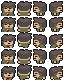
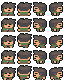
fix(v2): Marie und Liam sind Kinder – so groß wie Emilia und Lena
Antwort des Auftraggebers in der Stil-Prüfung: Beide Figurenblätter
verlieren je Zelle eine Zeile (Mütze bzw. Haare), höchste Pose 15 statt 16.

diff --git a/v2/tests/art/figures.test.ts b/v2/tests/art/figures.test.ts
@@ -13,7 +13,9 @@ const CELL = 16;
 const COLS = 4;
 const ROWS = 5;
 const CHILDREN = ['emilia', 'lena', 'julian'];
-const ADULTS = NPCS.map((n) => n.id);
+/** Dorfbewohner, die Kinder sind (Antwort des Auftraggebers in der Stil-Prüfung, 2026-11-14): so groß wie Emilia. */
+const CHILD_NPCS = ['marie', 'liam'];
+const ADULTS = NPCS.map((n) => n.id).filter((id) => !CHILD_NPCS.includes(id));
 /** Erwachsene, deren Pflicht-Vorlage nicht 16 hoch ist (offener Punkt für den Auftraggeber). */
 const TOO_SHORT_TEMPLATE = ['oma'];
 
@@ -67,7 +69,8 @@ describe('sprites.ts', () => {
   });
 
   it('FIGURES hat genau Emilia, Lena, Julian und alle Dorfbewohner', () => {
-    expect(Object.keys(FIGURES).sort()).toEqual([...CHILDREN, ...ADULTS].sort());
+    expect(CHILD_NPCS.filter((id) => !NPCS.some((n) => n.id === id))).toEqual([]);
+    expect(Object.keys(FIGURES).sort()).toEqual([...CHILDREN, ...CHILD_NPCS, ...ADULTS].sort());
   });
 
   it('jede Blatt- und Gesichtsdatei existiert, dazu der Schatten', () => {
@@ -119,11 +122,18 @@ describe('Figurenblätter', () => {
     expect(Math.max(...boxes.map((b) => b!.right))).toBe(CELL - 2);
   });
 
-  it('Größen: Julian < Emilia = Lena < Erwachsene (Spec 8.2)', () => {
+  it('Größen: Julian < Emilia = Lena = Marie = Liam < Erwachsene (Spec 8.2)', () => {
     expect(FIGURES.julian!.height).toBe(13);
     expect(FIGURES.emilia!.height).toBe(15);
     expect(FIGURES.lena!.height).toBe(15);
+    for (const id of CHILD_NPCS) expect(FIGURES[id]!.height, id).toBe(15);
     for (const id of ADULTS.filter((a) => !TOO_SHORT_TEMPLATE.includes(a))) expect(FIGURES[id]!.height, id).toBe(16);
+  });
+
+  it('im Stehen ist Marie so hoch wie Emilia und Liam so hoch wie Lena', () => {
+    const idleTop = (id: string) => Math.min(...cellBoxes(readSheet(FIGURES[id]!.sheet)).slice(0, COLS).map((b) => b!.top));
+    expect(CELL - idleTop('marie')).toBe(CELL - idleTop('emilia'));
+    expect(CELL - idleTop('liam')).toBe(CELL - idleTop('lena'));
   });
 
   it('Ausnahme: Oma (Vorlage OldWoman) ist nur so groß wie Emilia, nicht kleiner', () => {

diff --git a/v2/src/data/sprites.ts b/v2/src/data/sprites.ts
@@ -23,15 +23,16 @@ function figure(id: string, height: FigureDef['height']): FigureDef {
   return { sheet: `figuren/${id}.png`, face: `figuren/${id}-gesicht.png`, height };
 }
 
-/** Kinder sind kleiner als Erwachsene: Julian < Emilia = Lena < Dorfbewohner (Spec 8.2). */
+/** Kinder sind kleiner als Erwachsene: Julian < Emilia = Lena = Marie = Liam < erwachsene Dorfbewohner (Spec 8.2). */
 export const FIGURES: Record<string, FigureDef> = {
   emilia: figure('emilia', 15),
   lena: figure('lena', 15),
   julian: figure('julian', 13),
   mama_tanja: figure('mama_tanja', 16),
   papa_milos: figure('papa_milos', 16),
-  marie: figure('marie', 16),
-  liam: figure('liam', 16),
+  // Marie und Liam sind Kinder (Antwort des Auftraggebers, Stil-Prüfung 2026-11-14): so groß wie Emilia und Lena.
+  marie: figure('marie', 15),
+  liam: figure('liam', 15),
   // OldWoman ist im Pack in keinem Bild höher als 15 und hat nur zwei Laufbilder (offener Punkt, siehe Bericht Task 8).
   oma: figure('oma', 15),
   opa: figure('opa', 16),

diff --git a/v2/src/assets/gfx/QUELLEN.md b/v2/src/assets/gfx/QUELLEN.md
@@ -79,10 +79,10 @@ Eine Namensnennung ist nicht verlangt; wir nennen die Urheber trotzdem gern.
 | mama_tanja | figuren/mama_tanja-gesicht.png | Actor/Character/Villager3/Faceset.png | siehe Änderungen | recolor [{"#4e484a":"#965340","#3b3643":"#695953","#a3754e":"#f2ad7d","#965340":"#d3865f","#56864c":"#cf736d","#a8a129":"#ef9597","#8d977f":"#543c52","#abc2bc":"#8f3e56"}] | Mama Tanja: braune Haare als Bob, rosa Oberteil, pflaumenfarbener Rock | CC0 1.0 |
 | papa_milos | figuren/papa_milos.png | Actor/Character/Villager2/SeparateAnim/Idle.png + Actor/Character/Villager2/SeparateAnim/Walk.png | siehe Änderungen | recolor [{"#d14b34":"#f2ad7d","#8f3e56":"#d3865f"}]; anchorBottomCenter [16,16] | Papa Milos: schwarze, wilde Locken, blaue Hose (Vorlage hat kein eigenes Hemd: Hemd- und Hautschatten sind eine Farbe) | CC0 1.0 |
 | papa_milos | figuren/papa_milos-gesicht.png | Actor/Character/Villager2/Faceset.png | siehe Änderungen | recolor [{"#d14b34":"#f2ad7d","#8f3e56":"#d3865f"}] | Papa Milos: schwarze, wilde Locken, blaue Hose (Vorlage hat kein eigenes Hemd: Hemd- und Hautschatten sind eine Farbe) | CC0 1.0 |
-| marie | figuren/marie.png | Actor/Character/ManGreen/SeparateAnim/Idle.png + Actor/Character/ManGreen/SeparateAnim/Walk.png | siehe Änderungen | recolor [{"#ef914f":"#f2ad7d","#d14b34":"#d3865f"}]; anchorBottomCenter [16,16] | Marie: blonde Haare unter grüner Zipfelmütze, grüne Kleidung (Mütze und Kleidung teilen die Farben; gelb würde mit den Haaren verschwimmen) | CC0 1.0 |
-| marie | figuren/marie-gesicht.png | Actor/Character/ManGreen/Faceset1.png | siehe Änderungen | recolor [{"#ef914f":"#f2ad7d","#d14b34":"#d3865f"}] | Marie: blonde Haare unter grüner Zipfelmütze, grüne Kleidung (Mütze und Kleidung teilen die Farben; gelb würde mit den Haaren verschwimmen) | CC0 1.0 |
-| liam | figuren/liam.png | Actor/Character/Boy/SeparateAnim/Idle.png + Actor/Character/Boy/SeparateAnim/Walk.png | siehe Änderungen | recolor [{"#d14b34":"#695953","#965340":"#4e484a","#ef914f":"#f2ad7d","#e3f1f5":"#56864c","#548789":"#816855"}]; anchorBottomCenter [16,16] | Angler Liam: dunkelbraune Strubbelhaare, grünes Hemd, braune Hose | CC0 1.0 |
-| liam | figuren/liam-gesicht.png | Actor/Character/Boy/Faceset.png | siehe Änderungen | recolor [{"#d14b34":"#695953","#965340":"#4e484a","#ef914f":"#f2ad7d","#e3f1f5":"#56864c","#548789":"#816855"}] | Angler Liam: dunkelbraune Strubbelhaare, grünes Hemd, braune Hose | CC0 1.0 |
+| marie | figuren/marie.png | Actor/Character/ManGreen/SeparateAnim/Idle.png + Actor/Character/ManGreen/SeparateAnim/Walk.png | siehe Änderungen | recolor [{"#ef914f":"#f2ad7d","#d14b34":"#d3865f"}]; dropRows [[5]] nur Richtung unten/oben; dropRows [[4]] nur Richtung links; dropRows [[4]] nur Richtung rechts, Blattzeile 0/1/3; dropRows [[5]] nur Richtung rechts, Blattzeile 2/4; anchorBottomCenter [16,16] | Marie (Kind): blonde Haare unter grüner Zipfelmütze, grüne Kleidung (Mütze und Kleidung teilen die Farben; gelb würde mit den Haaren verschwimmen) | CC0 1.0 |
+| marie | figuren/marie-gesicht.png | Actor/Character/ManGreen/Faceset1.png | siehe Änderungen | recolor [{"#ef914f":"#f2ad7d","#d14b34":"#d3865f"}] | Marie (Kind): blonde Haare unter grüner Zipfelmütze, grüne Kleidung (Mütze und Kleidung teilen die Farben; gelb würde mit den Haaren verschwimmen) | CC0 1.0 |
+| liam | figuren/liam.png | Actor/Character/Boy/SeparateAnim/Idle.png + Actor/Character/Boy/SeparateAnim/Walk.png | siehe Änderungen | recolor [{"#d14b34":"#695953","#965340":"#4e484a","#ef914f":"#f2ad7d","#e3f1f5":"#56864c","#548789":"#816855"}]; dropRows [[6]] nur Blattzeile 0/1/3; dropRows [[7]] nur Richtung unten/links/rechts, Blattzeile 2/4; dropRows [[5]] nur Richtung oben, Blattzeile 2/4; anchorBottomCenter [16,16] | Angler Liam (Kind): dunkelbraune Strubbelhaare, grünes Hemd, braune Hose | CC0 1.0 |
+| liam | figuren/liam-gesicht.png | Actor/Character/Boy/Faceset.png | siehe Änderungen | recolor [{"#d14b34":"#695953","#965340":"#4e484a","#ef914f":"#f2ad7d","#e3f1f5":"#56864c","#548789":"#816855"}] | Angler Liam (Kind): dunkelbraune Strubbelhaare, grünes Hemd, braune Hose | CC0 1.0 |
 | oma | figuren/oma.png | Actor/Character/OldWoman/SpriteSheet.png (Zeilen 0, 0, 1, 0, 1) | siehe Änderungen | recolor [{"#d3a2c0":"#8e7c73","#f2eaf1":"#b3957f","#a5608b":"#4e484a","#548789":"#a5608b","#2d697b":"#8f3e56","#ef914f":"#f2ad7d","#d14b34":"#d3865f"}]; anchorBottomCenter [16,16] | Oma: graue lange Haare, malvenfarbenes Kleid | CC0 1.0 |
 | oma | figuren/oma-gesicht.png | Actor/Character/OldWoman/Faceset.png | siehe Änderungen | recolor [{"#d3a2c0":"#8e7c73","#f2eaf1":"#b3957f","#a5608b":"#4e484a","#548789":"#a5608b","#2d697b":"#8f3e56","#ef914f":"#f2ad7d","#d14b34":"#d3865f"}] | Oma: graue lange Haare, malvenfarbenes Kleid | CC0 1.0 |
 | opa | figuren/opa.png | Actor/Character/OldMan3/SeparateAnim/Idle.png + Actor/Character/OldMan3/SeparateAnim/Walk.png | siehe Änderungen | recolor [{"#3b3643":"#5f7160","#4e484a":"#8d977f","#ef914f":"#f2ad7d","#d14b34":"#d3865f"}]; anchorBottomCenter [16,16] | Opa: Strohhut, weißer Bart, olivgrünes Gewand (Glatze unter dem Hut) | CC0 1.0 |
@@ -107,8 +107,8 @@ Vorlagen aus `Actor/Character/` im Pack; Höhe und Breite in Bildpunkten, gemess
 | julian | Villager4 | 2 Farben umgefärbt; Zeile 4, 9, 13 entfernt (Blattzeile 0/1/3); Zeile 5, 10, 13 entfernt (Richtung unten/links/rechts, Blattzeile 2/4); Zeile 3, 8, 13 entfernt (Richtung oben, Blattzeile 2/4); Spalte 6, 9 entfernt | 13 | 14 | Cousin Julian: blonde Haare, rotes Hemd (Hemdfarbe = Wangen im Gesicht), kleiner als alle |
 | mama_tanja | Villager3 | 8 Farben umgefärbt | 16 | 16 | Mama Tanja: braune Haare als Bob, rosa Oberteil, pflaumenfarbener Rock |
 | papa_milos | Villager2 | 2 Farben umgefärbt | 16 | 16 | Papa Milos: schwarze, wilde Locken, blaue Hose (Vorlage hat kein eigenes Hemd: Hemd- und Hautschatten sind eine Farbe) |
-| marie | ManGreen | 2 Farben umgefärbt | 16 | 16 | Marie: blonde Haare unter grüner Zipfelmütze, grüne Kleidung (Mütze und Kleidung teilen die Farben; gelb würde mit den Haaren verschwimmen) |
-| liam | Boy | 5 Farben umgefärbt | 16 | 15 | Angler Liam: dunkelbraune Strubbelhaare, grünes Hemd, braune Hose |
+| marie | ManGreen | 2 Farben umgefärbt; Zeile 5 entfernt (Richtung unten/oben); Zeile 4 entfernt (Richtung links); Zeile 4 entfernt (Richtung rechts, Blattzeile 0/1/3); Zeile 5 entfernt (Richtung rechts, Blattzeile 2/4) | 15 | 16 | Marie (Kind): blonde Haare unter grüner Zipfelmütze, grüne Kleidung (Mütze und Kleidung teilen die Farben; gelb würde mit den Haaren verschwimmen) |
+| liam | Boy | 5 Farben umgefärbt; Zeile 6 entfernt (Blattzeile 0/1/3); Zeile 7 entfernt (Richtung unten/links/rechts, Blattzeile 2/4); Zeile 5 entfernt (Richtung oben, Blattzeile 2/4) | 15 | 15 | Angler Liam (Kind): dunkelbraune Strubbelhaare, grünes Hemd, braune Hose |
 | oma | OldWoman | 7 Farben umgefärbt | 15 | 15 | Oma: graue lange Haare, malvenfarbenes Kleid |
 | opa | OldMan3 | 4 Farben umgefärbt | 16 | 16 | Opa: Strohhut, weißer Bart, olivgrünes Gewand (Glatze unter dem Hut) |
 | baba | Cavegirl2 | 6 Farben umgefärbt | 16 | 16 | Baba: rotbraune, wilde Haare mit Zöpfen, rotes Kleid |

diff --git a/docs/superpowers/plans/2026-11-13-emilia-2-etappe-1a-einstieg-und-welt.md b/docs/superpowers/plans/2026-11-13-emilia-2-etappe-1a-einstieg-und-welt.md
@@ -655,7 +655,7 @@
 
 Umgesetzt per Subagent-Driven Development auf dem Branch `v2/etappe-1a-welt` (abgezweigt von `plan/etappe-1`), alle 13 Tasks mit eigener Prüfung, danach Schlussprüfung des ganzen Branchs und eine Fix-Welle. Nichts ist gemergt oder gepusht.
 
-**Prüfstand am Ende:** `v2/`: Typprüfung ohne Fehler, Vitest 613 bestanden (nach dem Versetzen des Lagerfeuers; 3 übersprungen: Tests, die das Pack oder Emilias echte Datei brauchen), Playwright 100 bestanden / 19 übersprungen (Chromium, WebKit, gebautes Paket), Paket-Schutztests 9 von 9, Grafik- und Kartentests mit Pack grün. Stamm: `npm test` und `npm run build` in Ordnung; am alten Spiel ist nichts geändert. Hinweis zur Reihenfolge: Der Stamm-Build leert `dist/`; erst danach `cd v2 && npm run build`, dann liegen `dist/index.html` und `dist/v2/index.html` beide vor (die Auslieferung baut ohnehin getrennt).
+**Prüfstand am Ende:** `v2/`: Typprüfung ohne Fehler, Vitest 614 bestanden (nach dem Versetzen des Lagerfeuers und dem Verkleinern von Marie und Liam; mit Pack 616; 3 übersprungen: Tests, die das Pack oder Emilias echte Datei brauchen), Playwright 100 bestanden / 19 übersprungen (Chromium, WebKit, gebautes Paket), Paket-Schutztests 9 von 9, Grafik- und Kartentests mit Pack grün. Stamm: `npm test` und `npm run build` in Ordnung; am alten Spiel ist nichts geändert. Hinweis zur Reihenfolge: Der Stamm-Build leert `dist/`; erst danach `cd v2 && npm run build`, dann liegen `dist/index.html` und `dist/v2/index.html` beide vor (die Auslieferung baut ohnehin getrennt).
 
 ### Was gegenüber dem Plan geändert wurde (Entscheidungen während der Umsetzung)
 
@@ -674,10 +674,11 @@ Umgesetzt per Subagent-Driven Development auf dem Branch `v2/etappe-1a-welt` (ab
 13. **Probe-Szene** wird weiter in `main.ts` gewählt (hält sie aus dem Produktions-Paket); `fps.smoothStep` ist aus (sonst Zeitlupe unter 60 Bildern je Sekunde); die Kamera zielt mit `centerOn` (Phaser kappt Kachel-Ebenen nach `worldView`, das den Ursprung ignoriert).
 14. **Fix-Welle nach der Schlussprüfung:** keine klebende Taste bei Zusatztasten, Rechtsklick-Menü und verborgener Seite; Fuß auf der unteren Kartenkante bleibt beim Neuladen stehen; Paket-Schutztest sucht weitere Test-Zugänge und prüft den ganzen CSP-Wortlaut.
 15. **Lagerfeuer versetzt (Stil-Prüfung, Wunsch des Auftraggebers am 2026-11-14):** Im alten Spiel stand es mitten auf dem Südweg (20/19). Es steht jetzt auf der Wiese östlich neben dem Weg auf 22/20, in Babas Blickrichtung; der Südweg ist durchgehend frei. Das weicht bewusst von Task 9 ab („Ort des Lagerfeuers unverändert"). Baba bleibt auf 18/20.
+16. **Marie und Liam sind Kinder (Stil-Prüfung, Antwort des Auftraggebers am 2026-11-14):** Beide Blätter verlieren je Zelle eine Zeile (Marie aus der Mütze, Liam aus den Haaren; Zeilen je Richtung und Haltung so gewählt, dass der Umriss geschlossen bleibt). Höchste Pose jetzt 15 statt 16 wie bei Emilia und Lena; im Stehen ist Marie 15 hoch wie Emilia, Liam 14 wie Lena. Gemessen im Stehen: Papa, Opa, Baba 16; Mama, Deda, Ferdinand 15 (16 erreichen sie erst im Schritt nach oben); Oma immer 15. Marie reicht mit der Zipfelmütze also im Stehen so hoch wie Mama. Die Gesichter (Porträts) sind unverändert.
 
 **Fehler im Plantext, die bei der Umsetzung auffielen:** `starsky` führt acht `npc`-Objekte *mit* Dorfbewohner-Kennungen (nicht ohne). `resetQuests` im alten Spiel ruft ein nicht vorhandenes `_assignNextQuest()`; ein echter New-Game-Plus-Stand sieht deshalb anders aus als die Vorlage `LEGACY_NGPLUS` (v2 verarbeitet die echte Form richtig; eine Vorlage in echter Form fehlt noch in der Verstümmelungs-Schleife). Mein Testraster fürs Eckenrutschen war zweimal falsch gestellt (0,5-s-Grenze; 5 Bildpunkte Überstand mit Querabsicht).
 
-### Figuren-Zuordnung (Vorschlag, wird in der Stil-Prüfung entschieden)
+### Figuren-Zuordnung (in der Stil-Prüfung am 2026-11-14 bestätigt)
 
 | Figur | Vorlage im Pack | Höhe | Aussehen und Abweichung |
 |---|---|---|---|
@@ -686,8 +687,8 @@ Umgesetzt per Subagent-Driven Development auf dem Branch `v2/etappe-1a-welt` (ab
 | julian | `Villager4` | 13 (14 breit) | blond, rotes Hemd |
 | mama_tanja | `Villager3` | 16 | brauner Bob, rosa Oberteil |
 | papa_milos | `Villager2` | 16 | schwarze Locken, blaue Hose; kein blaues Hemd |
-| marie | `ManGreen` | 16 | blond unter grüner Zipfelmütze; grün statt gelb |
-| liam | `Boy` | 16 | dunkelbraune Strubbelhaare, grünes Hemd |
+| marie | `ManGreen` | 15 (Kind) | blond unter grüner Zipfelmütze; grün statt gelb |
+| liam | `Boy` | 15 (Kind) | dunkelbraune Strubbelhaare, grünes Hemd |
 | oma | `OldWoman` | 15 | graue lange Haare, malvenfarbenes Kleid |
 | opa | `OldMan3` | 16 | Strohhut, weißer Bart, olivgrünes Gewand |
 | baba | `Cavegirl2` | 16 | rotbraune Haare, rotes Kleid; wirkt jung |
@@ -713,7 +714,7 @@ Stichwortliste im Kopfkommentar von `v2/src/scenes/world/buildLayers.ts` (Tilema
 
 - Gefällt das Dorf (Erdweg statt Sandweg; Tannen wirken wie Büsche; Gartenecke mit Blumen unter den Zäunen unruhig)? **Antwort 2026-11-14 (anhand von Bildern, unterwegs): „ja, gefällt mir", mit einer Änderung: Das Lagerfeuer stand auf dem Weg und ist versetzt (siehe Punkt 15 oben).**
 - Größen: Kinder sind meist nur einen Bildpunkt kleiner als Erwachsene; Oma ist so hoch wie Emilia. **Antwort 2026-11-14: „passt" – die Größen bleiben, wie sie sind.**
-- Zuordnung der Figuren (Tabelle oben): Papa ohne Hemd in Blau, Marie in Grün, Baba wirkt jung; Emilia und Mama ähneln sich am meisten. **Antwort 2026-11-14 (anhand des Figurenbilds, die vier Punkte waren genannt): „ja" – alle zwölf Zuordnungen bleiben.** Sind Marie und Liam Kinder oder Erwachsene? (Noch offen; beide sind derzeit 16 Bildpunkte hoch wie die Erwachsenen.)
+- Zuordnung der Figuren (Tabelle oben): Papa ohne Hemd in Blau, Marie in Grün, Baba wirkt jung; Emilia und Mama ähneln sich am meisten. **Antwort 2026-11-14 (anhand des Figurenbilds, die vier Punkte waren genannt): „ja" – alle zwölf Zuordnungen bleiben.** Sind Marie und Liam Kinder oder Erwachsene? **Antwort 2026-11-14: „Kinder" – beide sind jetzt so groß wie Emilia und Lena (siehe Punkt 16 oben).**
 - Schatten der Figuren ist kaum zu sehen (liegt fast ganz unter der Figur).
 - Zäune, Truhen, Wegweiser, Büsche und Hühner sind wie im alten Spiel durchlaufbar; mit der neuen Tiefensortierung wirkt das wie ein Fehler. Sperren?
 - Lena (Stilprobe) und Deda stehen dicht unter Brunnen und Kessel.
